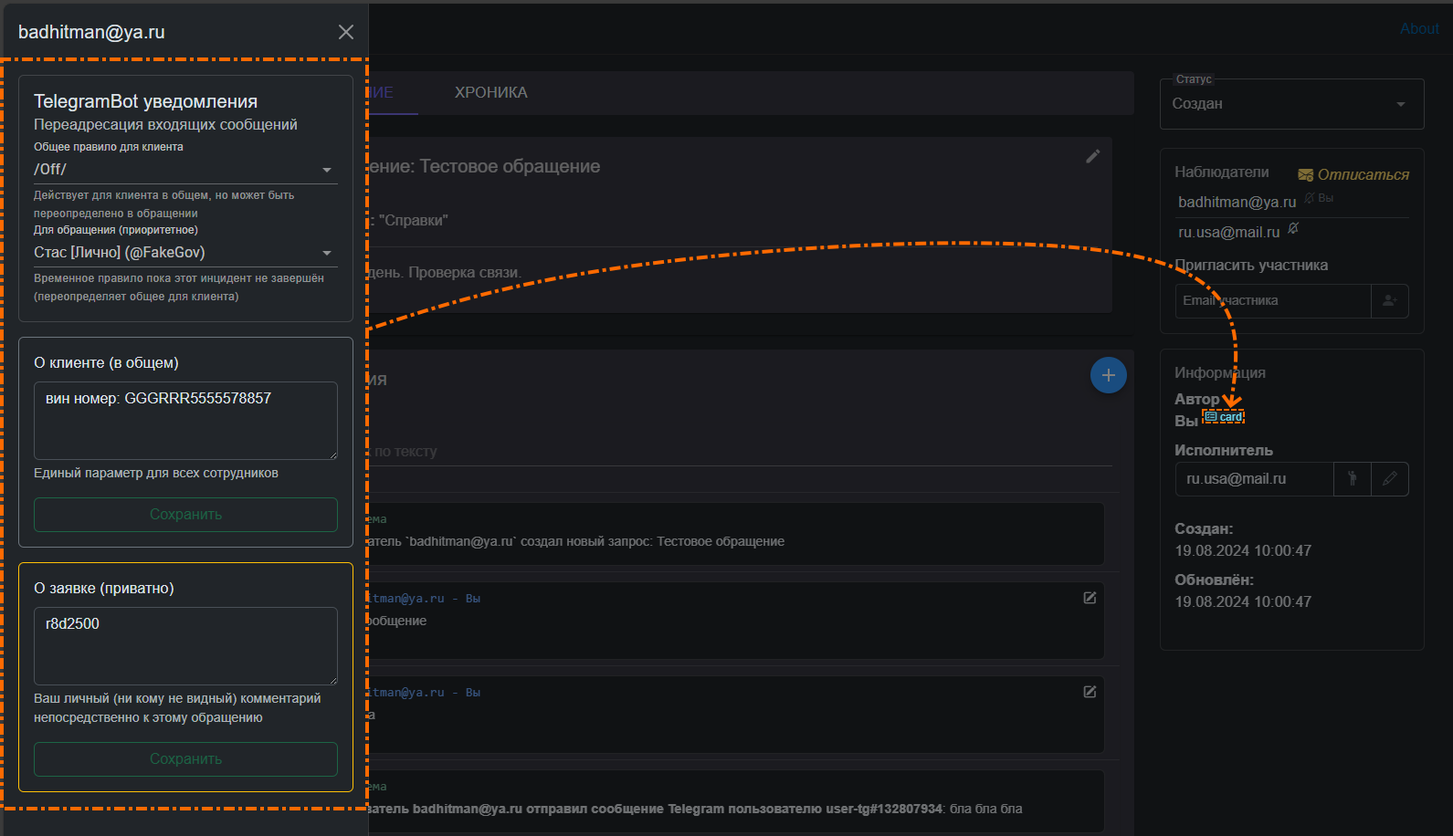
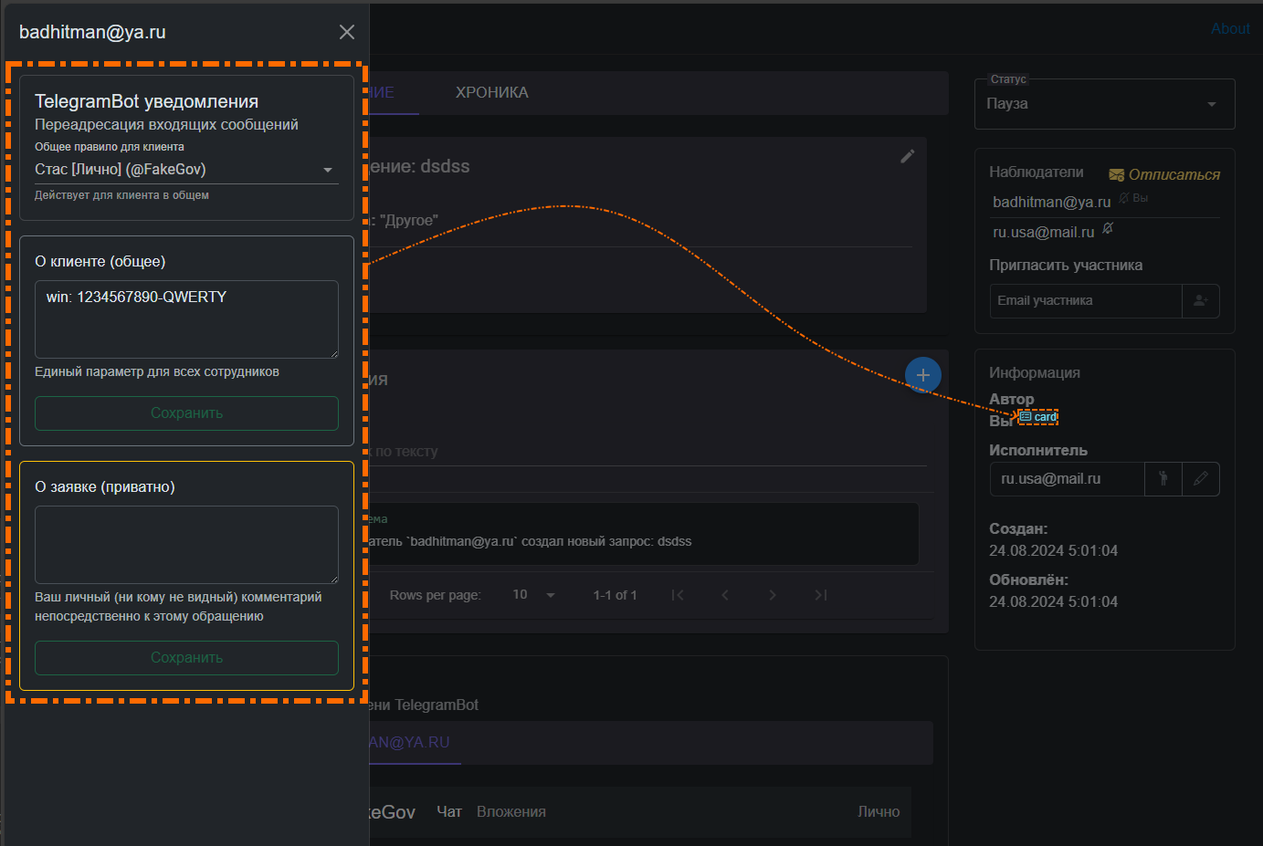
~

diff --git a/Telegram.Bot.Polling/Services/Receives/tg/SendTextMessageTelegramReceive.cs b/Telegram.Bot.Polling/Services/Receives/tg/SendTextMessageTelegramReceive.cs
@@ -18,16 +18,16 @@ namespace Transmission.Receives.telegram;
 /// Отправить сообщение пользователю через TelegramBot SendTextMessageTelegramBotModel
 /// </summary>
 public class SendTextMessageTelegramReceive(ITelegramBotClient _botClient, IDbContextFactory<TelegramBotContext> tgDbFactory, IWebRemoteTransmissionService webRemoteCall, StoreTelegramService storeTgRepo, ILogger<SendTextMessageTelegramReceive> _logger)
-    : IResponseReceive<SendTextMessageTelegramBotModel?, int?>
+    : IResponseReceive<SendTextMessageTelegramBotModel?, MessageComplexIdsModel?>
 {
     /// <inheritdoc/>
     public static string QueueName => GlobalStaticConstants.TransmissionQueues.SendTextMessageTelegramReceive;
 
     /// <inheritdoc/>
-    public async Task<TResponseModel<int?>> ResponseHandleAction(SendTextMessageTelegramBotModel? message)
+    public async Task<TResponseModel<MessageComplexIdsModel?>> ResponseHandleAction(SendTextMessageTelegramBotModel? message)
     {
         ArgumentNullException.ThrowIfNull(message);
-        TResponseModel<int?> res = new();
+        TResponseModel<MessageComplexIdsModel?> res = new();
         string msg;
         if (string.IsNullOrWhiteSpace(message.Message))
         {
@@ -87,10 +87,14 @@ public class SendTextMessageTelegramReceive(ITelegramBotClient _botClient, IDbCo
                                     replyToMessageId: message.ReplyToMessageId);
                     }
 
-                    res.Response = sender_msg.MessageId;
-                    messageThreadId ??= res.Response;
+                    messageThreadId ??= sender_msg.MessageId;
 
-                    await storeTgRepo.StoreMessage(sender_msg);
+                    MessageTelegramModelDB msg_db = await storeTgRepo.StoreMessage(sender_msg);
+                    res.Response = new MessageComplexIdsModel()
+                    {
+                        DatabaseId = msg_db.Id,
+                        TelegramId = sender_msg.MessageId
+                    };
                 }
             }
             else
@@ -101,9 +105,13 @@ public class SendTextMessageTelegramReceive(ITelegramBotClient _botClient, IDbCo
                     parseMode: parse_mode,
                     replyToMessageId: message.ReplyToMessageId);
 
-                res.Response = sender_msg.MessageId;
+                MessageTelegramModelDB msg_db = await storeTgRepo.StoreMessage(sender_msg);
+                res.Response = new MessageComplexIdsModel()
+                {
+                    DatabaseId = msg_db.Id,
+                    TelegramId = sender_msg.MessageId
+                };
 
-                await storeTgRepo.StoreMessage(sender_msg);
             }
 
             //#if DEBUG

diff --git a/HelpdeskService/Services/Receives/TelegramMessageIncomingReceive.cs b/HelpdeskService/Services/Receives/TelegramMessageIncomingReceive.cs
@@ -14,7 +14,7 @@ namespace Transmission.Receives.helpdesk;
 /// </summary>
 public class TelegramMessageIncomingReceive(
     IDbContextFactory<HelpdeskContext> helpdeskDbFactory,
-    ITelegramRemoteTransmissionService tgRepo,
+    //ITelegramRemoteTransmissionService tgRepo,
     ISerializeStorageRemoteTransmissionService StorageRepo)
     : IResponseReceive<TelegramIncomingMessageModel?, bool>
 {
@@ -33,7 +33,6 @@ public class TelegramMessageIncomingReceive(
             .Where(x => x.AuthorIdentityUserId == req.User.UserIdentityId)
             .ToArrayAsync();
 
-        //ForwardMessageTelegramBotModelDB
         if (issues_for_user.Length == 1)
         {
             IssueHelpdeskModelDB issue_db = issues_for_user[0];
@@ -44,11 +43,28 @@ public class TelegramMessageIncomingReceive(
                 Name = GlobalStaticConstants.Routes.ISSUE_CONTROLLER_NAME,
                 OwnerPrimaryKey = issue_db.Id,
             };
-            TResponseModel<long?> rest = await StorageRepo.ReadParameter<long?>(KeyStorage);
-            if (rest.Response.HasValue && rest.Response != 0)
+
+            TResponseModel<long?> helpdesk_personal_redirect_telegram_for_issue_rest = await StorageRepo.ReadParameter<long?>(KeyStorage);
+            if (!helpdesk_personal_redirect_telegram_for_issue_rest.Success() || !helpdesk_personal_redirect_telegram_for_issue_rest.Response.HasValue || helpdesk_personal_redirect_telegram_for_issue_rest.Response == 0)
             {
-                //var v = await tgRepo.
+                res.AddRangeMessages(helpdesk_personal_redirect_telegram_for_issue_rest.Messages);
+                res.AddError("Отсутствует значение helpdesk_personal_redirect_telegram_for_issue_rest");
+                return res;
             }
+
+            //TResponseModel<MessageComplexIdsModel?> forward_res = await tgRepo.ForwardMessage(new()
+            //{
+            //    DestinationChatId = helpdesk_personal_redirect_telegram_for_issue_rest.Response.Value,
+            //    SourceChatId = req.Chat.ChatTelegramId,
+            //    SourceMessageId = req.MessageTelegramId,
+            //});
+            //await context.AddAsync(new ForwardMessageTelegramBotModelDB()
+            //{
+            //    DestinationChatId = helpdesk_personal_redirect_telegram_for_issue_rest.Response.Value,
+            //    ResultMessageId = forward_res.Response.DatabaseId,
+            //    ResultMessageTelegramId = forward_res.Response.TelegramId,
+            //     SourceChatId = req.Chat!.ChatTelegramId
+            //});
         }
 
         return res;

diff --git a/ServerLib/Services/WebAppService.cs b/ServerLib/Services/WebAppService.cs
@@ -275,7 +275,7 @@ public class WebAppService(
             await identityContext.SaveChangesAsync();
         }
 
-        TResponseModel<int?> tgCall = await tgRemoteRepo.SendTextMessageTelegram(new SendTextMessageTelegramBotModel()
+        TResponseModel<MessageComplexIdsModel?> tgCall = await tgRemoteRepo.SendTextMessageTelegram(new SendTextMessageTelegramBotModel()
         {
             Message = $"Ваш Telegram аккаунт привязан к учётной записи '{userIdentityDb.Email}' сайта {webConfig.Value.ClearBaseUri}",
             UserTelegramId = req.TelegramUser.TelegramId,
@@ -317,7 +317,7 @@ public class WebAppService(
         }
 
         TelegramUserModelDb tg_user_info = await identityContext.TelegramUsers.FirstAsync(x => x.TelegramId == telegramId);
-        TResponseModel<int?> tgCall = await tgRemoteRepo.SendTextMessageTelegram(new SendTextMessageTelegramBotModel()
+        TResponseModel<MessageComplexIdsModel?> tgCall = await tgRemoteRepo.SendTextMessageTelegram(new SendTextMessageTelegramBotModel()
         {
             Message = $"Ваш Telegram аккаунт отключён от учётной записи {userIdentityDb.Email} с сайта {webConfig.Value.ClearBaseUri}",
             UserTelegramId = tg_user_info.TelegramId,
@@ -341,7 +341,7 @@ public class WebAppService(
         if (MailAddress.TryCreate(user.Email, out _))
             await mailRepo.SendEmailAsync(user.Email, "Удаление привязки Telegram к учётной записи", $"Аккаунт Telegram {tg_user_dump} отключён от вашей учётной записи на сайте");
 
-        TResponseModel<int?> tgCall = await tgRemoteRepo.SendTextMessageTelegram(new SendTextMessageTelegramBotModel()
+        TResponseModel<MessageComplexIdsModel?> tgCall = await tgRemoteRepo.SendTextMessageTelegram(new SendTextMessageTelegramBotModel()
         {
             Message = $"Ваш Telegram аккаунт отключён от учётной записи {user.Email} с сайта {webConfig.Value.ClearBaseUri}",
             UserTelegramId = (await identityContext.TelegramUsers.FirstAsync(x => x.TelegramId == tg_user_dump)).TelegramId,

diff --git a/RemoteCallLib/Transmission/TransmissionTelegramService.cs b/RemoteCallLib/Transmission/TransmissionTelegramService.cs
@@ -24,8 +24,8 @@ public class TransmissionTelegramService(IRabbitClient rabbitClient) : ITelegram
         => await rabbitClient.MqRemoteCall<TPaginationResponseModel<ChatTelegramModelDB>?>(GlobalStaticConstants.TransmissionQueues.ChatsSelectTelegramReceive, req);
 
     /// <inheritdoc/>
-    public async Task<TResponseModel<int?>> ForwardMessage(ForwardMessageTelegramBotModel message)
-        => await rabbitClient.MqRemoteCall<int?>(GlobalStaticConstants.TransmissionQueues.ForwardTextMessageTelegramReceive, message);
+    public async Task<TResponseModel<MessageComplexIdsModel?>> ForwardMessage(ForwardMessageTelegramBotModel message)
+        => await rabbitClient.MqRemoteCall<MessageComplexIdsModel?>(GlobalStaticConstants.TransmissionQueues.ForwardTextMessageTelegramReceive, message);
 
     /// <inheritdoc/>
     public async Task<TResponseModel<string?>> GetBotUsername()
@@ -40,8 +40,8 @@ public class TransmissionTelegramService(IRabbitClient rabbitClient) : ITelegram
         => await rabbitClient.MqRemoteCall<TPaginationResponseModel<MessageTelegramModelDB>>(GlobalStaticConstants.TransmissionQueues.MessagesChatsSelectTelegramReceive, req);
 
     /// <inheritdoc/>
-    public async Task<TResponseModel<int?>> SendTextMessageTelegram(SendTextMessageTelegramBotModel message_telegram)
-        => await rabbitClient.MqRemoteCall<int?>(GlobalStaticConstants.TransmissionQueues.SendTextMessageTelegramReceive, message_telegram);
+    public async Task<TResponseModel<MessageComplexIdsModel?>> SendTextMessageTelegram(SendTextMessageTelegramBotModel message_telegram)
+        => await rabbitClient.MqRemoteCall<MessageComplexIdsModel?>(GlobalStaticConstants.TransmissionQueues.SendTextMessageTelegramReceive, message_telegram);
 
     /// <inheritdoc/>
     public async Task<TResponseModel<object?>> SetWebConfig(WebConfigModel webConf)

diff --git a/Telegram.Bot.Polling/Services/Receives/tg/ForwardMessageTelegramReceive.cs b/Telegram.Bot.Polling/Services/Receives/tg/ForwardMessageTelegramReceive.cs
@@ -19,23 +19,27 @@ public class ForwardMessageTelegramReceive(
     ITelegramBotClient _botClient,
     IDbContextFactory<TelegramBotContext> tgDbFactory,
     StoreTelegramService storeTgRepo)
-    : IResponseReceive<ForwardMessageTelegramBotModel?, int?>
+    : IResponseReceive<ForwardMessageTelegramBotModel?, MessageComplexIdsModel?>
 {
     /// <inheritdoc/>
     public static string QueueName => GlobalStaticConstants.TransmissionQueues.ForwardTextMessageTelegramReceive;
 
     /// <inheritdoc/>
-    public async Task<TResponseModel<int?>> ResponseHandleAction(ForwardMessageTelegramBotModel? message)
+    public async Task<TResponseModel<MessageComplexIdsModel?>> ResponseHandleAction(ForwardMessageTelegramBotModel? message)
     {
         ArgumentNullException.ThrowIfNull(message);
-        TResponseModel<int?> res = new() { Response = 0 };
+        TResponseModel<MessageComplexIdsModel?> res = new();
         Message sender_msg;
         try
         {
             sender_msg = await _botClient.ForwardMessageAsync(chatId: message.DestinationChatId, fromChatId: message.SourceChatId, messageId: message.SourceMessageId);
-            res.Response = sender_msg.MessageId;
-            await storeTgRepo.StoreMessage(sender_msg);
 
+            MessageTelegramModelDB msg_db = await storeTgRepo.StoreMessage(sender_msg);
+            res.Response = new()
+            {
+                TelegramId = sender_msg.MessageId,
+                DatabaseId = msg_db.Id,
+            };
         }
         catch (Exception ex)
         {

diff --git a/Telegram.Bot.Polling/Program.cs b/Telegram.Bot.Polling/Program.cs
@@ -103,7 +103,7 @@ builder.ConfigureServices((context, services) =>
     services.AddScoped<IHelpdeskRemoteTransmissionService, TransmissionHelpdeskService>();
     services.AddScoped<ISerializeStorageRemoteTransmissionService, SerializeStorageRemoteTransmissionService>();
     //
-    services.RegisterMqListener<SendTextMessageTelegramReceive, SendTextMessageTelegramBotModel, int?>();
+    services.RegisterMqListener<SendTextMessageTelegramReceive, SendTextMessageTelegramBotModel, MessageComplexIdsModel?>();
     services.RegisterMqListener<SetWebConfigReceive, WebConfigModel, object?>();
     services.RegisterMqListener<GetBotUsernameReceive, object?, string?>();
     services.RegisterMqListener<ChatsReadTelegramReceive, long[]?, ChatTelegramModelDB[]?>();
@@ -111,7 +111,7 @@ builder.ConfigureServices((context, services) =>
     services.RegisterMqListener<GetFileTelegramReceive, string?, byte[]?>();
     services.RegisterMqListener<ChatsFindForUserTelegramReceive, long[]?, ChatTelegramModelDB[]?>();
     services.RegisterMqListener<ChatsSelectTelegramReceive, TPaginationRequestModel<string?>?, TPaginationResponseModel<ChatTelegramModelDB>?>();
-    services.RegisterMqListener<ForwardMessageTelegramReceive, ForwardMessageTelegramBotModel?, int?>();
+    services.RegisterMqListener<ForwardMessageTelegramReceive, ForwardMessageTelegramBotModel?, MessageComplexIdsModel?>();
     #endregion
 });
 

diff --git a/SharedLib/IServices/transmission/ITelegramRemoteTransmissionService.cs b/SharedLib/IServices/transmission/ITelegramRemoteTransmissionService.cs
@@ -12,7 +12,7 @@ public interface ITelegramRemoteTransmissionService
     /// <summary>
     /// Переслать сообщение пользователю через TelegramBot
     /// </summary>
-    public Task<TResponseModel<int?>> ForwardMessage(ForwardMessageTelegramBotModel message);
+    public Task<TResponseModel<MessageComplexIdsModel?>> ForwardMessage(ForwardMessageTelegramBotModel message);
 
     /// <summary>
     /// Получить Username для TelegramBot
@@ -22,7 +22,7 @@ public interface ITelegramRemoteTransmissionService
     /// <summary>
     /// Отправить сообщение через Telegram бота
     /// </summary>
-    public Task<TResponseModel<int?>> SendTextMessageTelegram(SendTextMessageTelegramBotModel message_telegram);
+    public Task<TResponseModel<MessageComplexIdsModel?>> SendTextMessageTelegram(SendTextMessageTelegramBotModel message_telegram);
 
     /// <summary>
     /// ChatsSelect

diff --git a/SharedLib/Models/telegram/MessageComplexIdsModel.cs b/SharedLib/Models/telegram/MessageComplexIdsModel.cs
@@ -1,0 +1,21 @@
+////////////////////////////////////////////////
+// © https://github.com/badhitman - @FakeGov 
+////////////////////////////////////////////////
+
+namespace SharedLib;
+
+/// <summary>
+/// MessageComplexIdsModel
+/// </summary>
+public class MessageComplexIdsModel
+{
+    /// <summary>
+    /// Telegram
+    /// </summary>
+    public required int TelegramId { get; set; }
+
+    /// <summary>
+    /// База данных
+    /// </summary>
+    public required int DatabaseId { get; set; }
+}

diff --git a/BlazorServerLib/Components/Telegram/TelegramChatWrapComponent.razor.cs b/BlazorServerLib/Components/Telegram/TelegramChatWrapComponent.razor.cs
@@ -69,7 +69,7 @@ public partial class TelegramChatWrapComponent : BlazorBusyComponentBaseModel
             }
         }
 
-        TResponseModel<int?> rest = await TelegramRepo.SendTextMessageTelegram(req);
+        TResponseModel<MessageComplexIdsModel?> rest = await TelegramRepo.SendTextMessageTelegram(req);
         _textSendMessage = "";
         await _messagesTelegramComponent.TableRef.ReloadServerData();
 

diff --git a/HelpdeskService/README.md b/HelpdeskService/README.md
@@ -19,9 +19,7 @@
 В карточке клиента доступны настройки пересылки ботом входящие сообщения от клиента и записки.
 
 #### TelegramBot уведомления (пересылка сообщений клиентов)
-Можно установить параметр для пользователя в общем, а можно его определить/переопределить "для обращения". Второй параметр (для обращения) переопределяет значение клиента (если он один такой для в контексте этого клиента).
-Другими словами: при входящем сообщении от клиента сначала система проверит наличие открытых обращений и наличия в них установок персональной переадресации. Если такой будет обнаружен в единственном числе, тогда сообщение клиента будет переправлено персонально назначенному чату. Если у клиента не окажется ни одного действующего обращения, то система проверит наличие общей подписки для клиента что бы переслать туда сообщение клиента. Таким образом общий чат для клиента можно указать не персональный чат сотрудника, а групповой чат с нужными сотрудниками, где любой из участников будет видеть входящие обращения от бота и будет иметь возможность оперативно взять на себя любое сообщение с автоматическим созданием обращения и назначения отвечающего исполнителем + установка переадресации входящих сообщений в этом обращении. Как следствие: дальнейшие сообщения клиента будут приходить уже персонально сотруднику, а не в групповой чат (до тех пор пока обращение не будет выполнено). Если приоритетных настроек переадресации для обращений больше одного, тогда сообщения снова начинают приходить в чат, указанный как общий для клиента. Что бы персональная установка для обращения начала работать для клиента она должна быть конкретной на один чат, иначе не понятно в какой из чатов пересылать сообщение и тогда система попытается отправить в общий для клиента чат.
-Переадресации, которые проходят как персональные для обращения регистрируются в журнале этого обращения (комментарий + запись в хронике). Что бы настроить переадресацию глобально для клиентов без активных подписок предусмотрена [настройка](https://github.com/badhitman/DesignerApp/tree/main/HelpdeskService#%D0%BF%D0%B5%D1%80%D0%B5%D0%B0%D0%B4%D1%80%D0%B5%D1%81%D0%B0%D1%86%D0%B8%D1%8F-telegram-%D0%B3%D0%BB%D0%BE%D0%B1%D0%B0%D0%BB%D1%8C%D0%BD%D0%BE).
+Можно установить переадресацию для клиента, что бы все его сообщения в TelegramBot пересылались в групповой чат или лично сотруднику. Другими словами: при входящем сообщении от клиента система сначала проверит наличие подписки персонально для клиента что бы переслать туда сообщение. Что бы настроить переадресацию глобально для клиентов без активных подписок предусмотрена [настройка](https://github.com/badhitman/DesignerApp/tree/main/HelpdeskService#%D0%BF%D0%B5%D1%80%D0%B5%D0%B0%D0%B4%D1%80%D0%B5%D1%81%D0%B0%D1%86%D0%B8%D1%8F-telegram-%D0%B3%D0%BB%D0%BE%D0%B1%D0%B0%D0%BB%D1%8C%D0%BD%D0%BE).
 
 #### Записки
 Доступны два варианта записок:
@@ -55,5 +53,5 @@
 Это параметр не HelpDesk, а именно бота. Таким образом бот перестанет обрабатывает простые текстовые сообщения от пользователей. В этом режиме простые текстовые сообщения в бота не обрабатываются автоответчиком (равно как и отправка файлов, документов и т.п.). Сообщения сохраняются, но ответ не формируется если это не команда или **CallbackQuery**. Команды в TelegramBot начинаются с косой черты (/). Таким образом в командном режиме бот будет пытаться выполнить/бработать входящее сообщение только если текст сообщения является командой: начинается с косой черты (/) либо в случае если это **CallbackQuery**, а в остальных случаях клиент будет в свободной форме вести чат с ботом, а сотрудники HelpDesk должны будут ему отвечать от имени бота через консоль.
 
 #### Переадресация Telegram (глобально)
-Следует указать чат в который будут переадресованы сообщения от новых клиентов, т.е. от тех клиентов, на которых ещё ни кто не подписан. Клиентам можно устанавливать [персональные переадресации на группы или персональные чаты](https://github.com/badhitman/DesignerApp/tree/main/HelpdeskService#telegrambot-%D1%83%D0%B2%D0%B5%D0%B4%D0%BE%D0%BC%D0%BB%D0%B5%D0%BD%D0%B8%D1%8F-%D0%BF%D0%B5%D1%80%D0%B5%D1%81%D1%8B%D0%BB%D0%BA%D0%B0-%D1%81%D0%BE%D0%BE%D0%B1%D1%89%D0%B5%D0%BD%D0%B8%D0%B9-%D0%BA%D0%BB%D0%B8%D0%B5%D0%BD%D1%82%D0%BE%D0%B2), но если в бота написал клиент без активной подписки, тогда такие сообщения пересылаются например в общий чат.
+Следует указать чат в который будут переадресованы сообщения от новых клиентов, т.е. от тех клиентов, на которых ни кто из сотрудников не подписан. Клиентам можно устанавливать [персональные переадресации на группы или персональные чаты](https://github.com/badhitman/DesignerApp/tree/main/HelpdeskService#telegrambot-%D1%83%D0%B2%D0%B5%D0%B4%D0%BE%D0%BC%D0%BB%D0%B5%D0%BD%D0%B8%D1%8F-%D0%BF%D0%B5%D1%80%D0%B5%D1%81%D1%8B%D0%BB%D0%BA%D0%B0-%D1%81%D0%BE%D0%BE%D0%B1%D1%89%D0%B5%D0%BD%D0%B8%D0%B9-%D0%BA%D0%BB%D0%B8%D0%B5%D0%BD%D1%82%D0%BE%D0%B2), но если в бота написал клиент без активной подписки, тогда такие сообщения пересылаются например в общий чат.
 ![redirect tg messages](img/config-helpdesk-anon.png)
